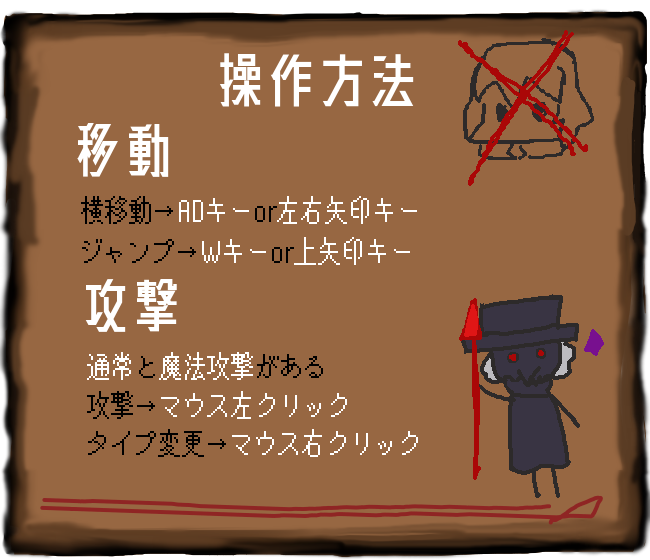
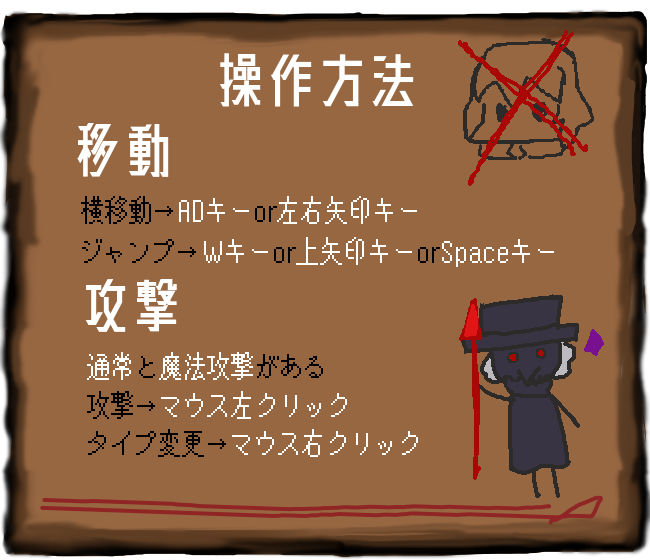
スペースを入れた事で変わった所を変更

Changed region(s): [[0.6462, 0.425, 0.8308, 0.4857], [0.4308, 0.425, 0.5846, 0.4857], [0.3077, 0.425, 0.3692, 0.4857]]

diff --git a/2023_10daysjam/Player/Player.cpp b/2023_10daysjam/Player/Player.cpp
@@ -264,7 +264,8 @@ void Player::Move(char* keys, char* preKeys)
 
 	//縦
 	Jump();
-	if (((preKeys[DIK_UP] == 0 && keys[DIK_UP] != 0) || (preKeys[DIK_W] == 0 && keys[DIK_W] != 0))) {
+
+	if (((preKeys[DIK_UP] == 0 && keys[DIK_UP] != 0) || (preKeys[DIK_W] == 0 && keys[DIK_W] != 0)|| (preKeys[DIK_SPACE] == 0 && keys[DIK_SPACE] !=0))) {
 
 		if (Novice::IsPlayingAudio(jumpPlay_) == 0) {
 			Novice::PlayAudio(jumpEffect_, 0, 1.5f);

diff --git a/2023_10daysjam/TutrialText/TutrialSystem.cpp b/2023_10daysjam/TutrialText/TutrialSystem.cpp
@@ -67,7 +67,7 @@ void TutrialSystem::Update(MaindState Pmaind, PlayerAttackType Patteck)
 		}
 
 		//3回飛ばせる
-		if ((preKeys[DIK_W] == 0 && keys[DIK_W] != 0) || (preKeys[DIK_UP] == 0 && keys[DIK_UP] != 0)) {
+		if ((preKeys[DIK_W] == 0 && keys[DIK_W] != 0) || (preKeys[DIK_UP] == 0 && keys[DIK_UP] != 0) || (preKeys[DIK_SPACE] == 0 && keys[DIK_SPACE] != 0)) {
 			//押した分だけカウント
 			jumpCount_++;
 		}

diff --git a/2023_10daysjam/SceneManager/GamePScene.cpp b/2023_10daysjam/SceneManager/GamePScene.cpp
@@ -273,7 +273,7 @@ void GamePScene::Update()
 
 			////ポーズ関連の動き
 			pouseMode_->Update(gameSModeNow_);
-			//pouseMode_->UpdatePlay();
+			
 			gameSModeNow_ = pouseMode_->GetGameSModeNow();
 			
 
